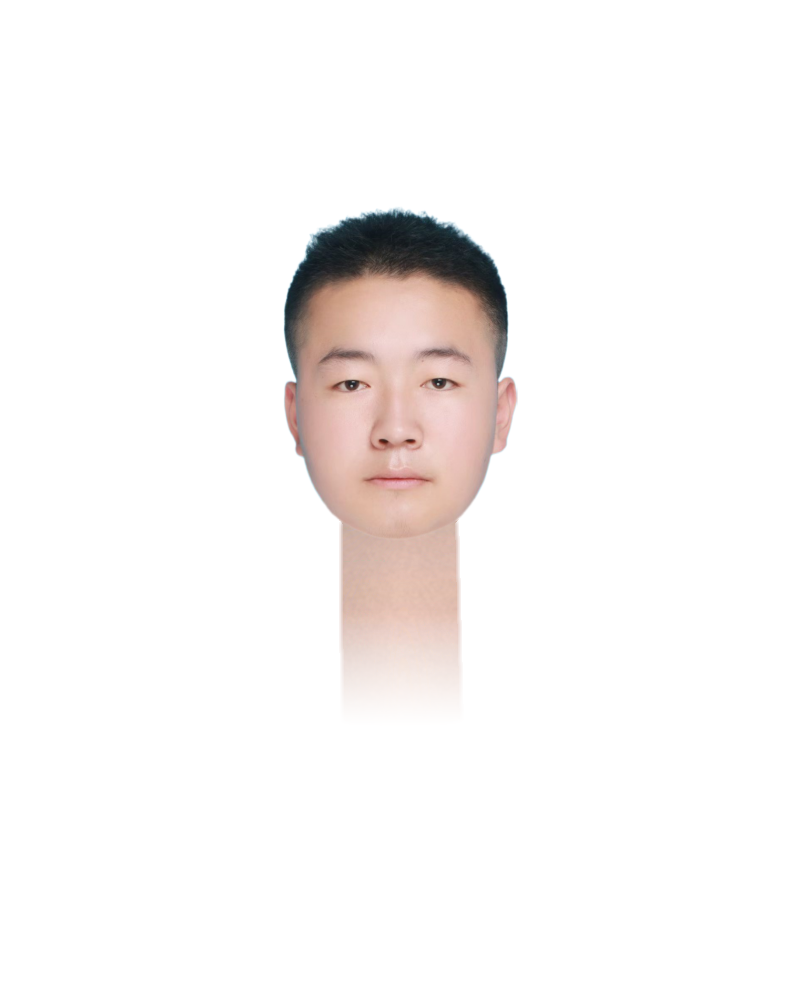
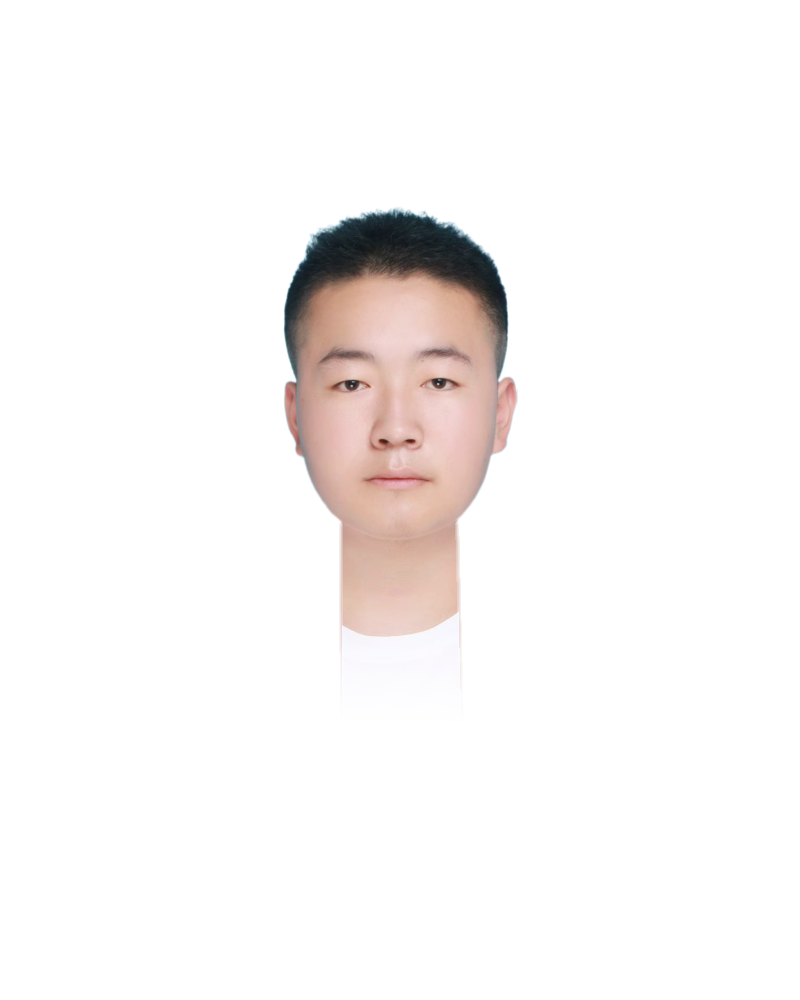
neck v1: \u539f\u56fe\u8131\u5b50 affine warp transplant\u2014\u2014\u50cf\u7d20\u7ea7 1:1 \u8fd8\u539f\u539f\u56fe\u8272\u5f69
\u7528\u6237\u53cd\u9988\uff1a\u4e4b\u524d\u5b9e\u73b0\u867d\u7136\u989c\u8272 mean \u5bf9\u4e0a\u4e86\uff0c\u4f46\u7f3a\u5c11\u539f\u56fe\u7684\u7ec6\u817b\u611f / \u80a4\u8272\u611f\u3002
\u539f\u56e0\uff1a\u53ea\u662f\u7edf\u8ba1\u5b66\u8272\u5f69\u5bf9\u9f50\uff08mean shift + CDF match\uff09\uff0c\u9888\u5b50\u672c\u8eab\u8fd8\u662f\u5408\u6210
\u7684 (procedural + 1/f noise)\uff0c\u8c08\u4e0d\u4e0a\u201c\u771f\u5b9e\u80a4\u80a4\u201d\u3002

\u65b0\u589e transplant \u6a21\u5f0f\u2014\u2014\u662f\u201c\u6700\u5927\u9650\u5ea6\u8fd8\u539f\u201d\u7684\u552f\u4e00\u6b63\u786e\u505a\u6cd5\uff1a
\u628a\u539f\u56fe\u7684\u8131\u5b50\u50cf\u7d20\u76f4\u63a5\u7528 affine warp \u5230 head \u5750\u6807\u7cfb\u3002

\u65b0\u51fd\u6570 transplant_source_neck:
1. \u5728\u539f\u56fe\u4e0a FaceMesh \u68c0\u6d4b\u4eba\u8138
2. \u53d6 chin (152) + \u5de6/\u53f3\u4e0b\u988c\u89d2 (172/397) \u4e09\u70b9\u4f5c affine \u9521\u70b9
3. cv2.getAffineTransform(src_pts, head_pts) \u8ba1\u7b97 2x3 \u53d8\u6362\u77e9\u9635
   \u540c\u65f6\u5bf9\u9f50 scale + rotation + translate
4. cv2.warpAffine(source, M, (head_w, head_h)) \u628a\u539f\u56fe\u6574\u4f53 warp \u5230 head \u5750\u6807\u7cfb
5. \u8fd4\u56de warped BGRA\uff08\u4e0e head \u540c\u5c3a\u5bf8\uff09

realism_pipeline \u52a0 source_warped_bgra \u53c2\u6570\uff1a
- \u5728 mask_bool erode 1px \u540e\u7684\u5185\u90e8\u533a\u57df\uff0c**\u7528 warped \u539f\u56fe\u50cf\u7d20\u5b8c\u5168\u8986\u76d6** procedural+detail \u7684 BGR
[…]

Changed region(s): [[0.4062, 0.62, 0.5938, 0.682]]

diff --git a/neck/add_neckv1.py b/neck/add_neckv1.py
@@ -445,6 +445,91 @@ def gather_chin_strip_skin_pixels(
     return roi[:, :, :3][valid]
 
 
+# Transplant 模式的 affine 锚点：用 chin / 双下颌角三点做 affine 变换（保 scale + rotation + translate）
+TRANSPLANT_ANCHOR_LANDMARKS = (152, 172, 397)
+TRANSPLANT_TONE_MATCH_STRENGTH = 0.30   # 颜色微调强度：transplant 后再做轻度 Reinhard 适应 head 脸色
+TRANSPLANT_INNER_SHRINK_PX = 1.0        # 内部 mask 微缩，避免 warp 边界残影
+
+
+def transplant_source_neck(
+    head_bgra: np.ndarray,
+    head_landmarks,
+    source_image_path: Optional[str],
+) -> Optional[np.ndarray]:
+    """
+    **真实色彩还原最直接的方法**：把原图（``source_image_path``）的脖子区域用
+    affine 变换 warp 到 head 坐标系，**像素级 1:1 复刻**原图脖子的颜色 + 纹理 + 光照。
+
+    流程：
+      1. 加载 source 图，FaceMesh 检测人脸（独立于 head 的 landmarks）
+      2. 用 chin (152) + 左/右下颌角 (172/397) 三点构造 affine 变换：
+         ``cv2.getAffineTransform(src_pts, head_pts)``
+         三点 affine 同时对齐 scale + rotation + translate
+      3. ``cv2.warpAffine(source, M, (head_w, head_h))`` 把 source 整图 warp 到 head 坐标系
+      4. 返回 warped BGRA 图（与 head 同尺寸）；mask 外像素由 BORDER_REPLICATE 填充
+
+    返回：
+      - (h, w, 4) BGRA uint8: warped 后的 source 图
+      - None: source 路径无效 / FaceMesh 检测失败 / 三点 affine 退化（共线）
+    """
+    if source_image_path is None or not source_image_path:
+        return None
+    try:
+        from neck.add_neck import imread_unicode
+    except ImportError:
+        from add_neck import imread_unicode
+    try:
+        src = imread_unicode(source_image_path)
+    except (FileNotFoundError, OSError, ValueError):
+        return None
+    if src is None or src.ndim != 3:
+        return None
+    if src.shape[2] == 3:
+        src = cv2.cvtColor(src, cv2.COLOR_BGR2BGRA)
+        src[:, :, 3] = 255
+    elif src.shape[2] != 4:
+        return None
+
+    sH, sW = src.shape[:2]
+    src_rgb = cv2.cvtColor(src[:, :, :3], cv2.COLOR_BGR2RGB)
+    src_landmarks = detect_face_with_retry(src_rgb)
+    if src_landmarks is None:
+        return None
+
+    h, w = head_bgra.shape[:2]
+    head_pts = np.array(
+        [landmark_xy(head_landmarks.landmark[i], w, h) for i in TRANSPLANT_ANCHOR_LANDMARKS],
+        dtype=np.float32,
+    )
+    src_pts = np.array(
+        [landmark_xy(src_landmarks.landmark[i], sW, sH) for i in TRANSPLANT_ANCHOR_LANDMARKS],
+        dtype=np.float32,
+    )
+    # 检查三点不共线（否则 affine 退化）
+    v1 = head_pts[1] - head_pts[0]
+    v2 = head_pts[2] - head_pts[0]
+    cross = abs(v1[0] * v2[1] - v1[1] * v2[0])
+    if cross < 1.0:
+        return None
+    v1s = src_pts[1] - src_pts[0]
+    v2s = src_pts[2] - src_pts[0]
+    cross_s = abs(v1s[0] * v2s[1] - v1s[1] * v2s[0])
+    if cross_s < 1.0:
+        return None
+
+    try:
+        M = cv2.getAffineTransform(src_pts, head_pts)
+    except cv2.error:
+        return None
+
+    warped = cv2.warpAffine(
+        src, M, (w, h),
+        flags=cv2.INTER_LINEAR,
+        borderMode=cv2.BORDER_REPLICATE,
+    )
+    return warped
+
+
 def gather_source_neck_skin_pixels(
     source_image_path: Optional[str],
 ) -> Optional[np.ndarray]:
@@ -1274,6 +1359,7 @@ def realism_pipeline(
     rng_seed: int = QUILT_RNG_SEED,
     quilt_method: str = "tile",
     source_neck_pixels: Optional[np.ndarray] = None,
+    source_warped_bgra: Optional[np.ndarray] = None,
 ) -> Tuple[np.ndarray, V1DebugInfo]:
     """
     Phase A 之"真实感主流程"：在 procedural 层之上跑 B/C/D/E。
@@ -1354,6 +1440,24 @@ def realism_pipeline(
         blended_bgr = quilted.copy()
     else:
         blended_bgr = procedural_layer[:, :, :3].copy()
+
+    # ---------- Transplant 替换：用原图脖子像素 1:1 替换合成脖子 BGR -----------------
+    # 保留 procedural 的"形状/光照框架"和 mask，仅在 mask 内**用原图真实像素覆盖** BGR。
+    # 边缘做一像素级羽化避免 warp 残影。
+    if source_warped_bgra is not None and source_warped_bgra.shape[:2] == (h, w):
+        # 用 mask_bool 内部稍微 erode 一圈避免 warp 边界混色
+        eroded_mask = cv2.erode(
+            mask_bool.astype(np.uint8) * 255,
+            np.ones((3, 3), np.uint8),
+            iterations=1,
+        )
+        em = eroded_mask > 0
+        # 中央用原图，mask 边缘 1px 平滑过渡到 procedural detail（避免硬接缝）
+        blended_bgr_arr = blended_bgr.astype(np.float32)
+        warped_bgr = source_warped_bgra[:, :, :3].astype(np.float32)
+        blended_bgr = np.where(em[..., None], warped_bgr, blended_bgr_arr)
+        blended_bgr = np.clip(blended_bgr, 0, 255).astype(np.uint8)
+
     blended_bgra = np.dstack([blended_bgr, polygon_mask_u8])
 
     # ---------- Phase C 先做 alpha 求解（把范围扩到 feather 全境）---------------------
@@ -1366,14 +1470,24 @@ def realism_pipeline(
 
     # ---------- Phase E: 颜色迁移 ----------------------------------------------------
     # 优先级：
-    #   1. 若 source_neck_pixels 非空（用户提供原图且检测到脖子）→ **严格按原图脖子色**
-    #      作 ref pool（不混合 chin/oval）
+    #   0. 若 transplant 模式（source_warped_bgra 已成功 warp 过来）→ BGR 已是原图真实
+    #      色，仅需要轻度（strength=0.30）Reinhard 适应 head 脸色光照差异，避免脖子
+    #      偏离 head 整体色调。
+    #   1. 若 source_neck_pixels 非空（提供原图但 transplant 没启用 / 几何对齐失败）→
+    #      严格按原图脖子色作 ref pool（不混合 chin/oval）
     #   2. 否则走「下巴过渡区 + 脸部 oval 最亮 40%」混合（chin 仅 15% 权重，避免拉暗）
     ref_pixels = np.empty((0, 3), dtype=np.uint8)
     ref_source = "none"
+    transplant_active = source_warped_bgra is not None and source_warped_bgra.shape[:2] == (h, w)
     if enable_pitie:
-        if source_neck_pixels is not None and source_neck_pixels.shape[0] >= SOURCE_NECK_MIN_PIXELS:
-            # 路径 1：原图有脖子，严格用原图脖子色
+        if transplant_active:
+            # transplant 模式：仅用 head 自身脸色作 ref，做轻度光照对齐
+            ref_pixels = gather_face_oval_skin_pixels(bgra, landmarks, h, w)
+            if ref_pixels.shape[0] < 200:
+                ref_pixels = _gather_neck_ref_pixels(bgra, landmarks, h, w)
+            ref_source = "transplant_light_match"
+        elif source_neck_pixels is not None and source_neck_pixels.shape[0] >= SOURCE_NECK_MIN_PIXELS:
+            # 路径 1：原图有脖子但没 transplant，严格用原图脖子色
             ref_pixels = source_neck_pixels
             ref_source = "source_image_neck"
         else:
@@ -1402,9 +1516,13 @@ def realism_pipeline(
 
         if ref_pixels.shape[0] >= 8:
             pitie_mask = polygon_mask_u8 >= 1
+            # transplant 模式用更低强度（仅适应光照），其他路径用原 strength
+            effective_strength = (
+                TRANSPLANT_TONE_MATCH_STRENGTH if transplant_active else pitie_strength
+            )
             _apply_L_meanshift_ab_cdf_inplace(
                 blended_bgra, pitie_mask, ref_pixels,
-                strength=pitie_strength, alpha_map=refined_alpha,
+                strength=effective_strength, alpha_map=refined_alpha,
             )
 
     # ---------- 方案 5: 胡茬检测 + 颌下暗调叠加 -------------------------------------
@@ -1564,8 +1682,13 @@ def add_fake_neck_v1(
         cylinder_strength=cylinder_strength,
     )
 
-    # 若提供了原图路径，尝试从中提取真实脖子肤色像素（None = 未提供 / 未检测到脖子）
+    # 若提供了原图路径，尝试做 transplant（最大限度还原真实脖子色彩）
+    source_warped = transplant_source_neck(bgra, landmarks, source_image_path)
+    # 同时（作 fallback ref pool）提取像素池
     source_neck_pixels = gather_source_neck_skin_pixels(source_image_path)
+
+    # transplant 成功时禁用胡茬阴影（原图脖子已包含真实胡茬阴影，再叠加会变双倍）
+    effective_enable_stubble = enable_stubble and source_warped is None
 
     final_layer, info = realism_pipeline(
         bgra, landmarks, proc_layer, mask_u8, poly, jaw_span,
@@ -1573,12 +1696,13 @@ def add_fake_neck_v1(
         enable_matting=enable_matting,
         enable_lap_blend=enable_lap_blend,
         enable_pitie=enable_pitie,
-        enable_stubble=enable_stubble,
+        enable_stubble=effective_enable_stubble,
         pitie_strength=pitie_strength,
         laplacian_levels=laplacian_levels,
         rng_seed=rng_seed,
         quilt_method=quilt_method,
         source_neck_pixels=source_neck_pixels,
+        source_warped_bgra=source_warped,
     )
     info = info._replace(pose=(yaw, pitch, roll))
 
